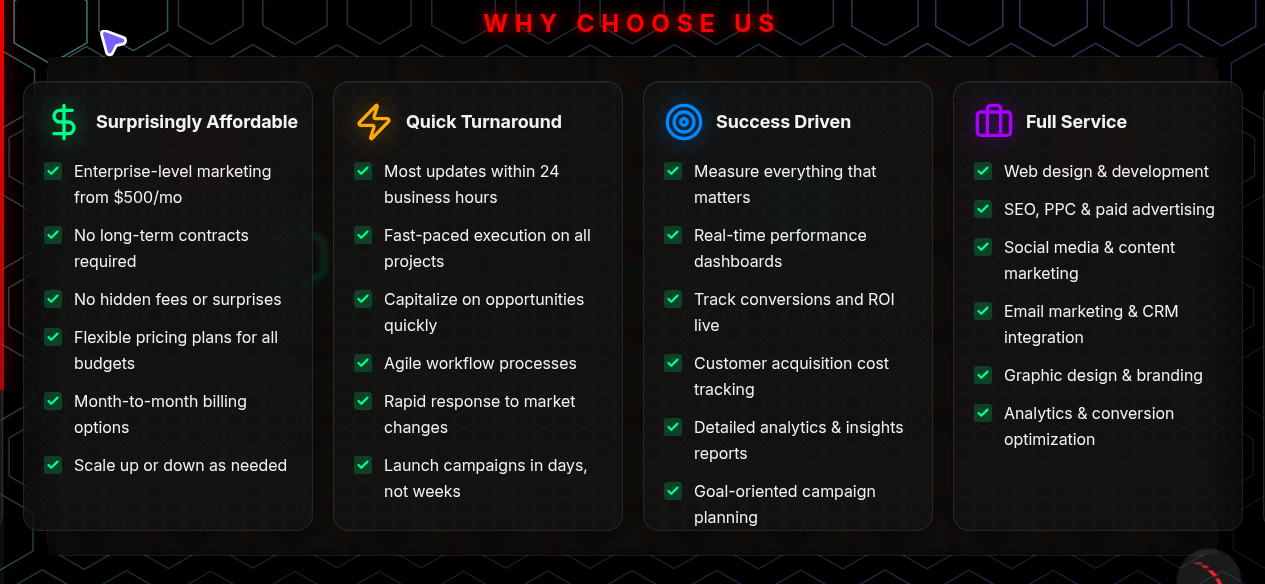
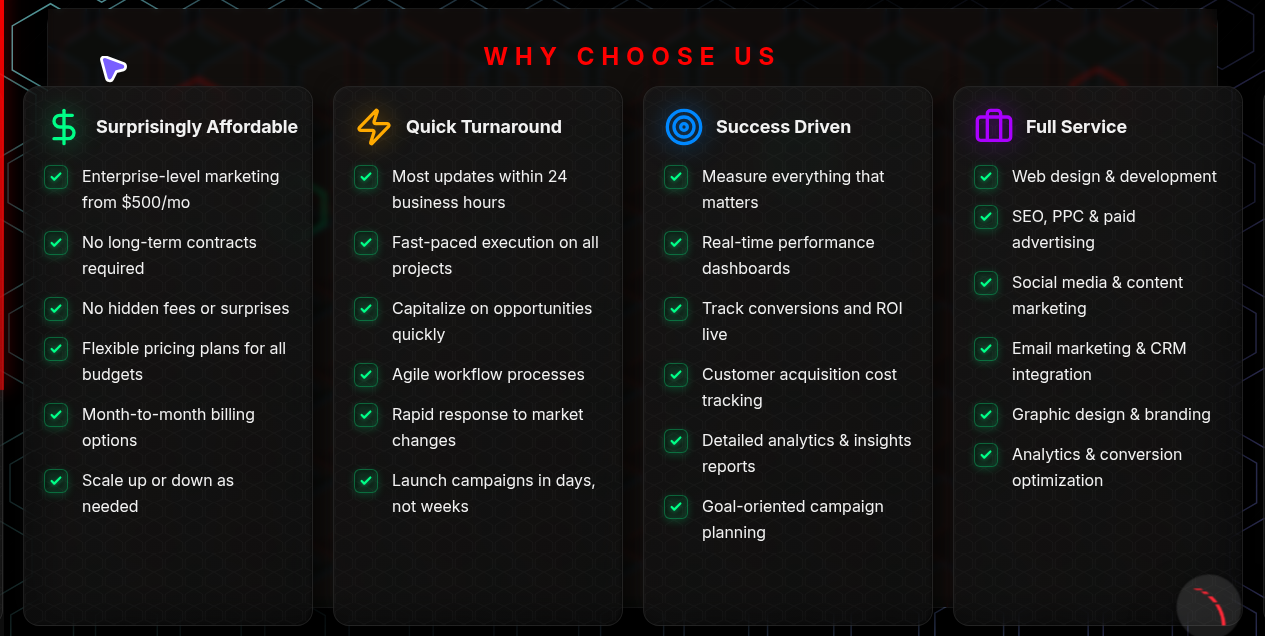
Add more space between the title and the value cards
Adjust the vertical positioning of animated value cards to increase margin from the section title.

Replit-Commit-Author: Agent
Replit-Commit-Session-Id: 852971f4-67f3-4dbd-a0f2-03854ba07b9b
Replit-Commit-Checkpoint-Type: full_checkpoint
Replit-Commit-Event-Id: 82c98043-1ebc-4980-acb5-5917de7a4c1f
Replit-Commit-Screenshot-Url: https://storage.googleapis.com/screenshot-production-us-central1/b1f36262-82ab-4eda-92e8-444014e257e5/852971f4-67f3-4dbd-a0f2-03854ba07b9b/Va88IGb

diff --git a/client/src/components/ScrollValueCards.tsx b/client/src/components/ScrollValueCards.tsx
@@ -91,7 +91,7 @@ function AnimatedValueCard({ card, index, totalCards, spreadProgress, getSpreadP
     <motion.div
       style={{
         position: "absolute",
-        top: "50%",
+        top: "58%",
         left: "50%",
         x: xPos,
         y: yPos,
